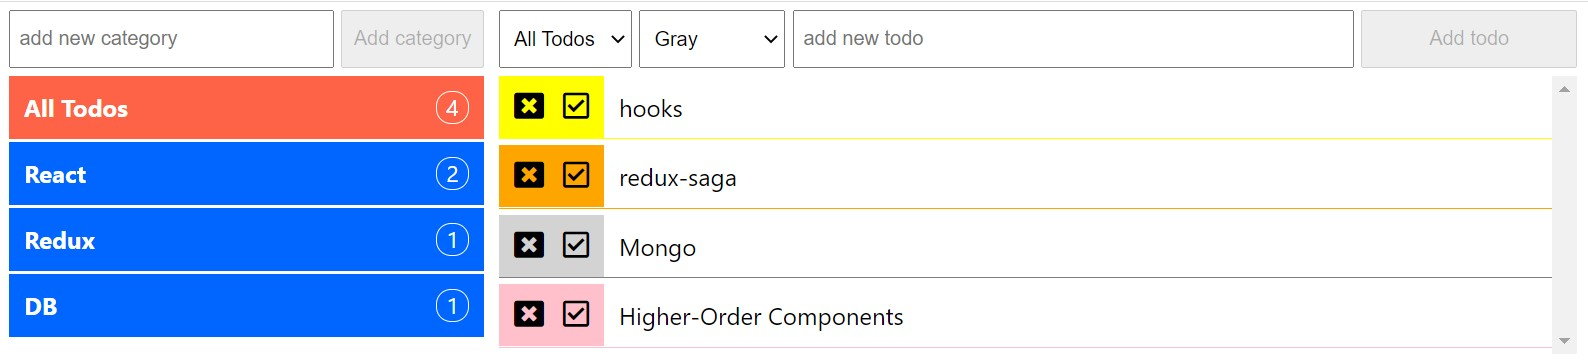
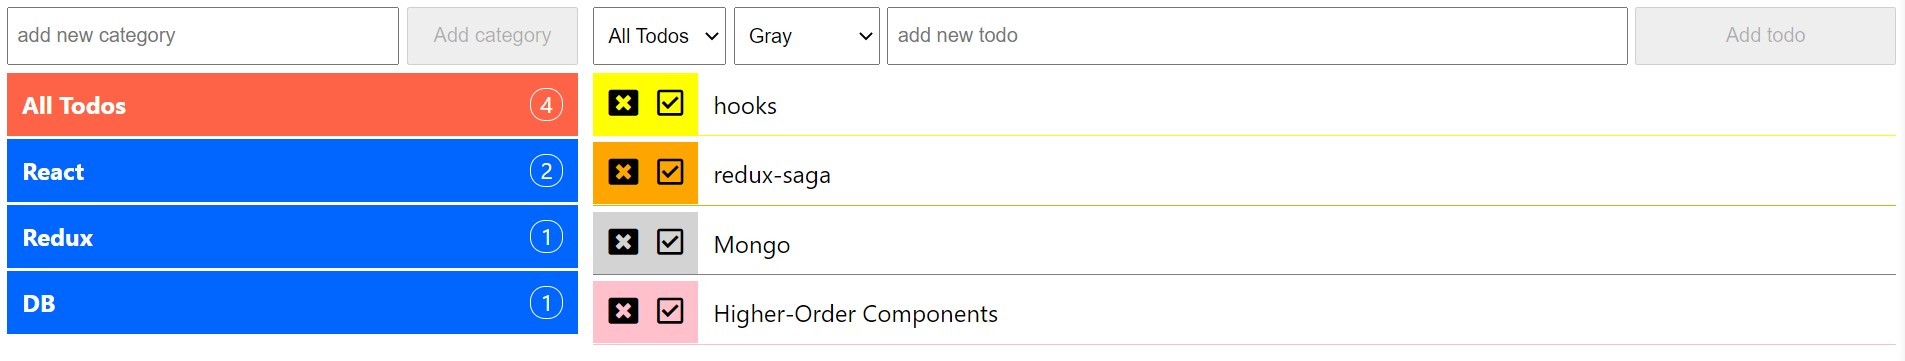
fixes

diff --git a/src/AddTodo.js b/src/AddTodo.js
@@ -39,17 +39,6 @@ const AddTodo = () => {
     { id: 8, color: "Brown" },
   ];
 
-  // const colors = [
-  //   { id: 1, color: "#ef476f" },
-  //   { id: 2, color: "#06d6a0" },
-  //   { id: 3, color: "#118ab2" },
-  //   { id: 4, color: "#073b4c" },
-  //   { id: 5, color: "#3a86ff" },
-  //   { id: 6, color: "#ffb703" },
-  //   { id: 7, color: "#fb8500" },
-  //   { id: 8, color: "#d90429" },
-  // ];
-
   return (
     <div className={styles.wrap}>
       <form onSubmit={handleSubmit} className={styles.wrap__form}>

diff --git a/src/CategoryItems.module.scss b/src/CategoryItems.module.scss
@@ -52,7 +52,6 @@
     padding: 10px;
     min-height: 22px;
     margin-bottom: 5px;
-    // font-size: 22px;
     font-weight: bold;
     transition-duration: 0.4s;
     &:hover {
@@ -60,9 +59,6 @@
       border: 0;
       border-radius: 0;
       background-color: tomato;
-      // background-color:rgb(0, 173, 107);
-      // background-color:rgb(0, 71, 151);
-      // background-color: rgb(0, 102, 255);
     }
   }
 

diff --git a/src/App.module.scss b/src/App.module.scss
@@ -20,7 +20,6 @@
     padding: 0 5px;
     &__wrap {
       max-height: 95vh;
-      overflow: scroll;
       overflow-x: hidden;
     }
   }
